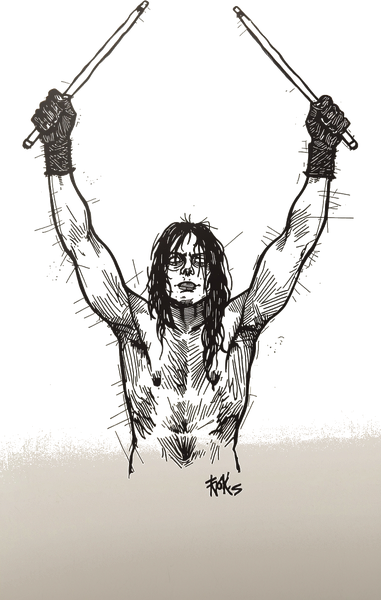
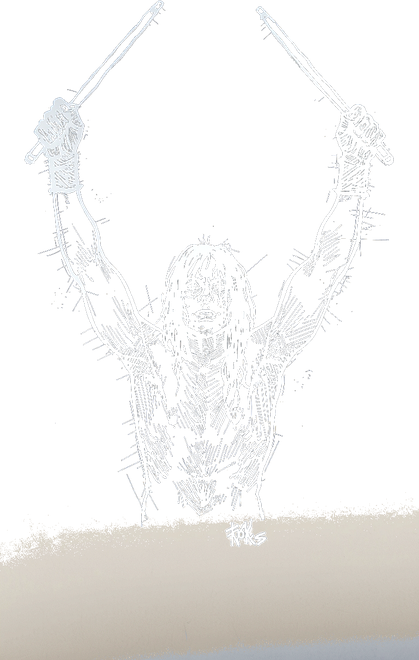
FIX: Member portraits — inverted colors + 200% larger
IMAGE REPROCESSING:
- Colors INVERTED: dark ink lines → bright white lines
- Background removed → transparent
- White lines now pop against dark game backgrounds
- No more dark-on-dark invisible portraits

SIZE INCREASES:
- Stage slots: 55 → 120px (was invisible, now fills card)
- Opening Night: 70 → 130px
- Recruit screen: 80 → 140px
- Pawn Shop: 55 → 110px
- Height ratio: 1.4 → 1.5 (taller portraits)

Removed contrast/brightness CSS filter since images are
now pre-processed with correct colors for dark backgrounds.

Changed region(s): [[0.0, 0.0, 1.0, 0.87], [0.3465, 0.96, 1.0, 1.0], [0.895, 0.36, 0.9239, 0.39]]

diff --git a/src/App.jsx b/src/App.jsx
@@ -536,7 +536,7 @@ function MemberPortrait({id,size,style}){
   const src=MEMBER_PORTRAITS[id]
   if(!src)return null
   const s2=size||80
-  return <img className="squiggle" src={src} alt={id} style={{width:s2,height:s2*1.4,objectFit:'contain',objectPosition:'top center',imageRendering:'auto',filter:'contrast(1.1) brightness(0.95)',...(style||{})}}/>
+  return <img className="squiggle" src={src} alt={id} style={{width:s2,height:s2*1.5,objectFit:'contain',objectPosition:'top center',imageRendering:'auto',filter:'none',...(style||{})}}/>
 }
 
 
@@ -935,7 +935,7 @@ function BoosterScreen({onComplete,seed}){
                 animation:(!isSel&&!dis&&!m.locked)?'throbSlow 4.5s ease-in-out infinite':'none'}}>
               <div style={{height:5,borderRadius:'7px 7px 0 0',background:isSel?'linear-gradient(90deg,#e8a820,#ffcc44)':kwc+'66'}}/>
               {isSel&&<div style={{position:'absolute',top:8,right:8,width:24,height:24,borderRadius:'50%',background:'#e8a820',display:'flex',alignItems:'center',justifyContent:'center',fontSize:13,color:'#000',fontWeight:900}}>✓</div>}
-              <div style={{flex:1,display:'flex',alignItems:'center',justifyContent:'center',fontSize:48,background:'rgba(0,0,0,0.3)',overflow:'hidden'}}>{MEMBER_PORTRAITS[m.id]?<MemberPortrait id={m.id} size={70}/>:m.emoji}</div>
+              <div style={{flex:1,display:'flex',alignItems:'center',justifyContent:'center',fontSize:48,background:'rgba(0,0,0,0.3)',overflow:'hidden'}}>{MEMBER_PORTRAITS[m.id]?<MemberPortrait id={m.id} size={130}/>:m.emoji}</div>
               <div style={{fontFamily:"'BogartsMetalFont',cursive",fontSize:24,color:isSel?'#e8d090':'#c8b878',textAlign:'center',padding:'2px 4px 0px',lineHeight:1,letterSpacing:2}}>{m.name}</div>
               <div style={{fontFamily:"'MBScribblesFont',serif",fontSize:15,letterSpacing:2,color:'#c8b878',textAlign:'center',padding:'3px 4px 6px',textTransform:'uppercase'}}>{m.role}</div>
               {/* Stat bar — locked vs normal */}
@@ -1064,7 +1064,7 @@ function PawnShopModal({stage, deck, discard, stash, salesLeft, onSellMember, on
           return(
             <div key={m.uid||i} style={{width:180,background:'linear-gradient(180deg,#1a1008,#0e0804)',border:'1px solid '+(tierColor||'rgba(160,80,240,0.4)'),borderRadius:7,overflow:'hidden',opacity:cantSell?0.5:1}}>
               {tierColor&&<div style={{background:tierColor,padding:'3px',textAlign:'center',fontFamily:"'MBScribblesFont',serif",fontSize:9,fontWeight:900,color:'#0a0704',letterSpacing:2}}>{m.demonic?'⛧ DEMONIC':m.mythic?'✦ MYTHIC':'✨ FOIL'}</div>}
-              <div style={{fontSize:44,textAlign:'center',padding:'14px 0',background:'rgba(0,0,0,0.3)',overflow:'hidden'}}>{MEMBER_PORTRAITS[m.id]?<MemberPortrait id={m.id} size={55}/>:m.emoji}</div>
+              <div style={{fontSize:44,textAlign:'center',padding:'14px 0',background:'rgba(0,0,0,0.3)',overflow:'hidden'}}>{MEMBER_PORTRAITS[m.id]?<MemberPortrait id={m.id} size={110}/>:m.emoji}</div>
               <div style={{padding:'0 10px 12px'}}>
                 <div style={{fontFamily:"'BogartsMetalFont',cursive",fontSize:20,color:'#e8d090',textAlign:'center',marginBottom:2}}>{m.name}</div>
                 <div style={{fontFamily:"'MBScribblesFont',serif",fontSize:8,color:'#c0a050',textAlign:'center',letterSpacing:1,marginBottom:6}}>{m.role}</div>
@@ -1867,7 +1867,7 @@ function StageSlot({member,isAttacking,isDiceTarget,onDrop,onDragOver,onDragStar
         {member.demonic?'⛧ DEMONIC':member.mythic?'✦ MYTHIC':'✨ FOIL'}
       </div>}
       <div style={{flex:1,display:'flex',alignItems:'center',justifyContent:'center',fontSize:68,background:'rgba(0,0,0,0.3)',position:'relative',minHeight:90,overflow:'hidden'}}>
-        {MEMBER_PORTRAITS[member.id]?<MemberPortrait id={member.id} size={55} style={{marginTop:-2}}/>:member.emoji}
+        {MEMBER_PORTRAITS[member.id]?<MemberPortrait id={member.id} size={120} style={{marginTop:-8}}/>:member.emoji}
         {st&&<div style={{position:'absolute',top:4,right:4,fontSize:22}}>💨</div>}
         {isAttacking&&<div style={{position:'absolute',inset:0,background:'rgba(255,50,0,0.12)',animation:'pulse 0.4s ease infinite alternate'}}/>}
       </div>
@@ -2817,7 +2817,7 @@ function DemonicConflictScreen({conflict,onChoice}){
         onMouseEnter={e=>{e.currentTarget.style.transform='scale(1.04)';e.currentTarget.style.boxShadow='0 0 60px rgba(232,168,32,0.8)'}}
         onMouseLeave={e=>{e.currentTarget.style.transform='none';e.currentTarget.style.boxShadow='0 0 40px rgba(232,168,32,0.5)'}}>
         <div style={{background:'linear-gradient(90deg,#e8a820,#ffcc44)',padding:'6px',textAlign:'center',fontFamily:"'MBScribblesFont',serif",fontSize:11,fontWeight:900,letterSpacing:3,color:'#0a0704'}}>{label}</div>
-        <div style={{fontSize:64,textAlign:'center',padding:'20px 0',background:'rgba(0,0,0,0.4)',overflow:'hidden'}}>{MEMBER_PORTRAITS[m.id]?<MemberPortrait id={m.id} size={80}/>:m.emoji}</div>
+        <div style={{fontSize:64,textAlign:'center',padding:'20px 0',background:'rgba(0,0,0,0.4)',overflow:'hidden'}}>{MEMBER_PORTRAITS[m.id]?<MemberPortrait id={m.id} size={140}/>:m.emoji}</div>
         <div style={{padding:'0 16px 16px'}}>
           <div style={{fontFamily:"'BogartsMetalFont',cursive",fontSize:28,color:'#e8d090',textAlign:'center',marginBottom:4}}>{m.name}</div>
           <div style={{fontFamily:"'MBScribblesFont',serif",fontSize:9,letterSpacing:2,color:'#8a7040',textAlign:'center',marginBottom:10}}>{m.role}</div>
